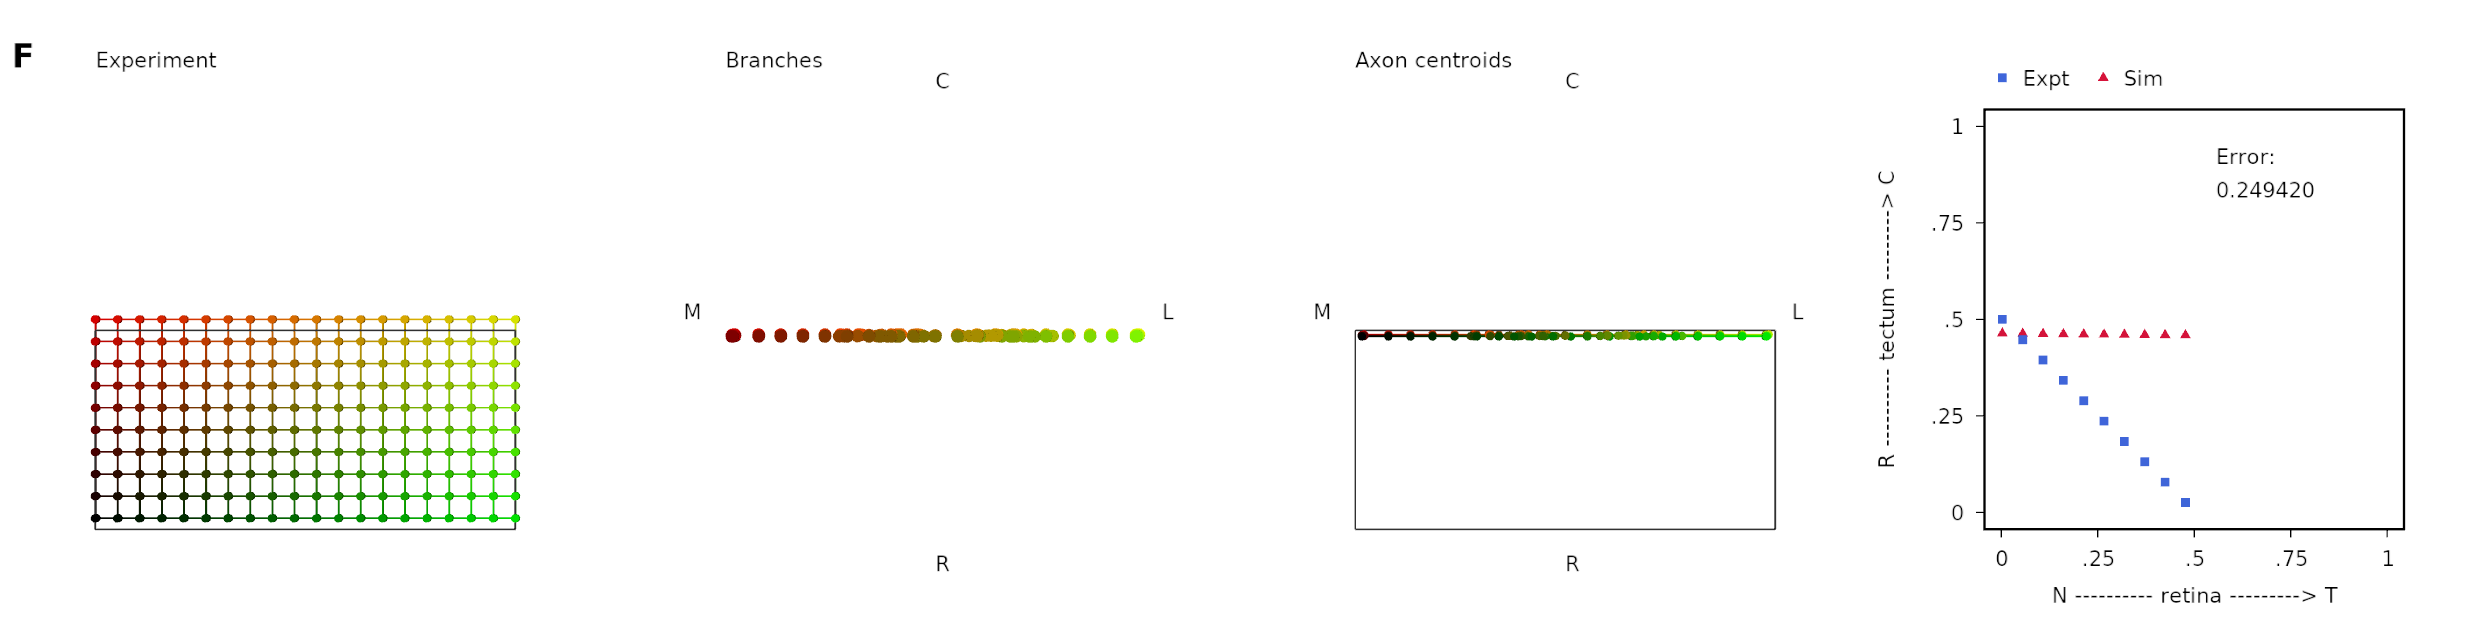
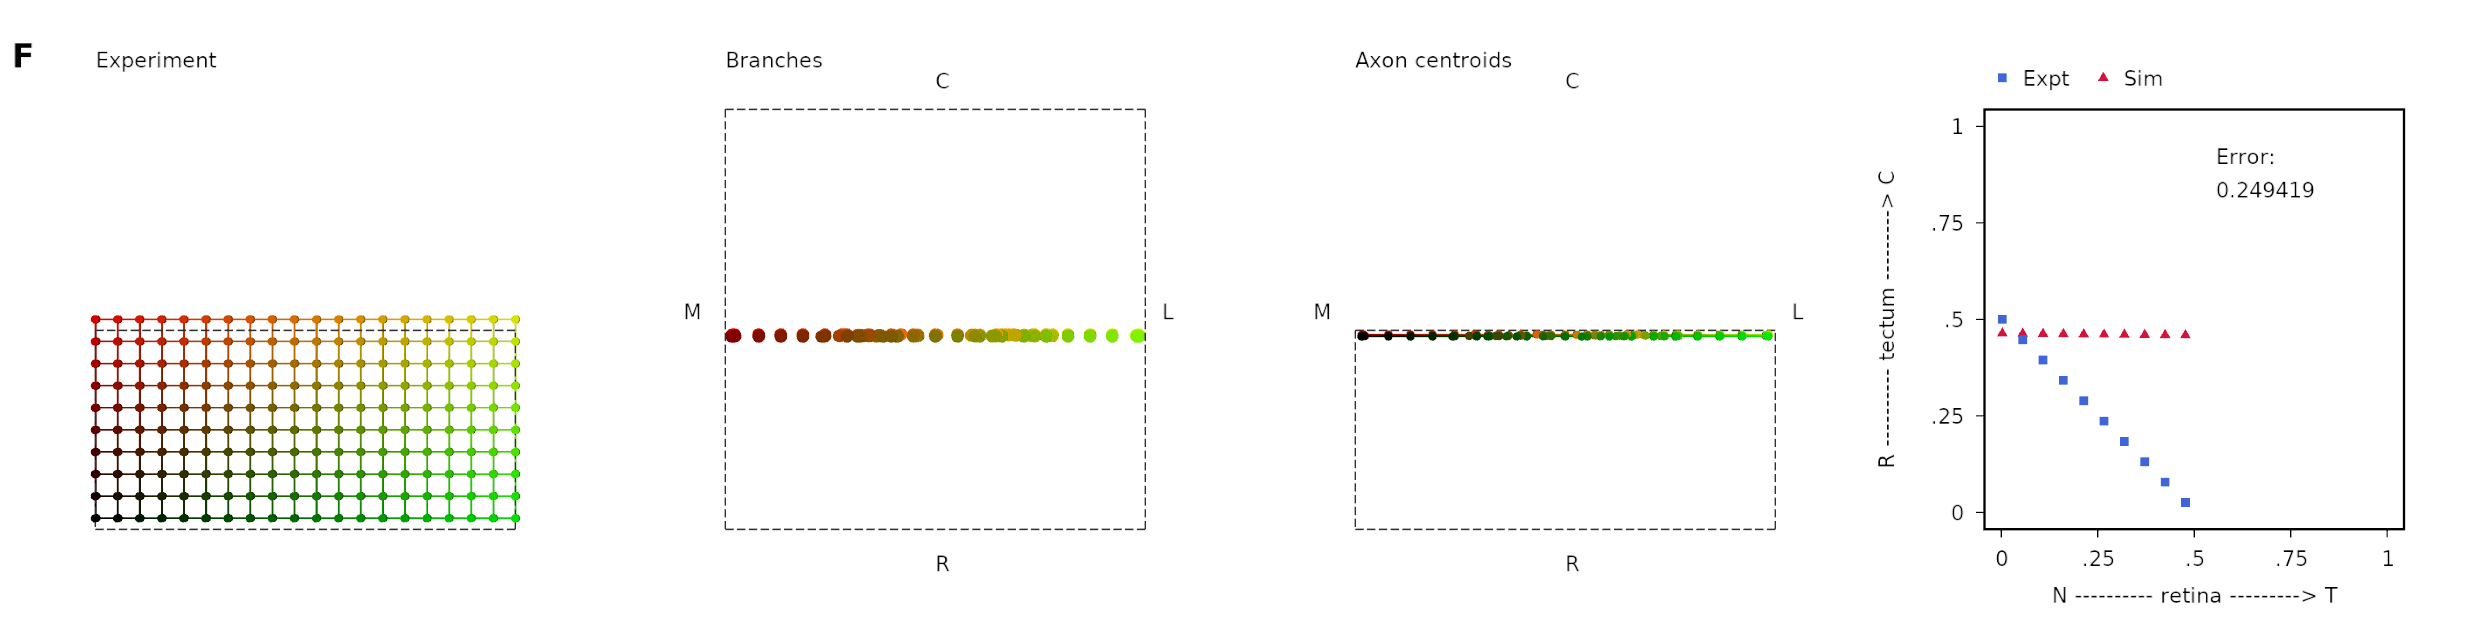
Adds dashed borders to figures

diff --git a/sim/agent/agent1.h b/sim/agent/agent1.h
@@ -99,7 +99,7 @@ std::ostream& operator<< (std::ostream& os, const AgentMetrics<T>& am)
 }
 
 // A selection of possible graph layouts to show when running the program
-enum class graph_layout { a, b, c, d, e, f, g, h };
+enum class graph_layout { a, b, c, d, e, f, g, h, i };
 
 // Agent1 coordinates an agent based simulation of axon branches of type B. This class
 // also incorporates the visualisation code that displays the state of the simulation as
@@ -146,14 +146,12 @@ struct Agent1
                 // Get layout from config file. Default to 0 or 'a'
                 this->layout = (graph_layout)this->conf->getUInt ("graph_layout", 0);
 
-                if (this->layout == graph_layout::c) {
-                    // Set up (from config file if necssary) the times at which the various
-                    // graphs will be frozen (i.e. no longer updated from the sim)
-                    this->freeze_times[0] = 0;
-                    this->freeze_times[1] = this->conf->getUInt ("freeze_time1", 20);
-                    this->freeze_times[2] = this->conf->getUInt ("freeze_time2", 80);
-                    this->freeze_times[3] = this->conf->getUInt ("freeze_time3", 120);
-                }
+                // Set up (from config file if necssary) the times at which the various
+                // graphs will be frozen (i.e. no longer updated from the sim)
+                this->freeze_times[0] = 0;
+                this->freeze_times[1] = this->conf->getUInt ("freeze_time1", 20);
+                this->freeze_times[2] = this->conf->getUInt ("freeze_time2", 80);
+                this->freeze_times[3] = this->conf->getUInt ("freeze_time3", 120);
 
                 // How early to start showing the crossings metric?
                 this->crosscount_from = this->conf->getUInt ("crosscount_from", 1000);
@@ -389,6 +387,17 @@ struct Agent1
             // Show RMS error
             AgentMetrics<T> am = this->get_metrics();
             this->sos_txt->setupText (std::to_string(am.rms[0]));
+            break;
+        }
+        case graph_layout::i:
+        {
+            if (stepnum <= this->freeze_times[1]) { this->cv1->reinit(); } // Time freeze branches
+            this->cv->reinit();  // Centroids
+            this->av->reinit();  // Selected axons
+            this->gv->append ((float)stepnum, this->ax_centroids.sos(), 0); // SOS/Crossings
+            if (stepnum > this->crosscount_from && stepnum%this->crosscount_every == 0) {
+                this->gv->append ((float)stepnum, this->ax_centroids.crosscount(), 1);
+            }
             break;
         }
         default:
@@ -1404,18 +1413,41 @@ struct Agent1
     {
         // morph::Visual init
         unsigned int wdefault = 1200;
-        if (this->layout == graph_layout::a || this->layout == graph_layout::d) { wdefault = 1920; }
-        if (this->layout == graph_layout::b || this->layout == graph_layout::e
-            || this->layout == graph_layout::g || this->layout == graph_layout::h) { wdefault = 2480; }
-        if (this->layout == graph_layout::c) { wdefault = 2200; }
-        if (this->layout == graph_layout::f) { wdefault = 675; }
-        const unsigned int ww = this->conf->getUInt ("win_width", wdefault);
         unsigned int hdefault = 800;
-        if (this->layout == graph_layout::a || this->layout == graph_layout::d) { hdefault = 1200; }
-        if (this->layout == graph_layout::b || this->layout == graph_layout::e
-            || this->layout == graph_layout::g || this->layout == graph_layout::h ) { hdefault = 630; }
-        if (this->layout == graph_layout::c) { hdefault = 1180; }
-        if (this->layout == graph_layout::f) { hdefault = 550; }
+        switch (this->layout) {
+        case graph_layout::a:
+        case graph_layout::d:
+        {
+            // 2x3
+            wdefault = 1920; hdefault = 1200;
+            break;
+        }
+        case graph_layout::b:
+        case graph_layout::e:
+        case graph_layout::g:
+        case graph_layout::h:
+        case graph_layout::i:
+        {
+            // 1x4
+            wdefault = 2480; hdefault = 630;
+            break;
+        }
+        case graph_layout::c:
+        {
+            wdefault = 2200; hdefault = 1180;
+            break;
+        }
+        case graph_layout::f:
+        {
+            // 1x1
+            wdefault = 675; hdefault = 550;
+            break;
+        }
+        default:
+            break;
+        }
+
+        const unsigned int ww = this->conf->getUInt ("win_width", wdefault);
         const unsigned int wh = this->conf->getUInt ("win_height", hdefault);
         if (ww != wdefault || wh != hdefault) {
             std::cout << "visinit() with win height: " << wh << ", and win width: " << ww << " (from json)."<< std::endl;
@@ -1429,15 +1461,17 @@ struct Agent1
             this->v->setSceneTrans (-0.3762f, 0.6880f, -5.3f);
         } else if (this->layout == graph_layout::b) {
             this->v->setSceneTrans (-0.2375f, -0.03f, -2.8f);
-        } else if (this->layout == graph_layout::e) {
-            this->v->setSceneTrans (-0.890077f, -0.0236414f, -2.6f);
         } else if (this->layout == graph_layout::c) {
             this->v->setSceneTrans (-0.91053f, 0.7895f, -6.1f);
+        } else if (this->layout == graph_layout::e) {
+            this->v->setSceneTrans (-0.890077f, -0.0236414f, -2.6f);
         } else if (this->layout == graph_layout::f) {
             this->v->setSceneTrans (1.00190961f,0.0175217576f,-2.70000315f);
         } else if (this->layout == graph_layout::g) {
             this->v->setSceneTrans (-1.22557163,-0.0104022622,-2.79999995);
         } else if (this->layout == graph_layout::h) {
+            this->v->setSceneTrans (-1.22557163,-0.0104022622,-2.79999995);
+        } else if (this->layout == graph_layout::i) {
             this->v->setSceneTrans (-1.22557163,-0.0104022622,-2.79999995);
         }
 
@@ -1475,6 +1509,8 @@ struct Agent1
         } else if (this->layout == graph_layout::h) { // 1x4; expt, branches, centroids, ret NT vs tec RC
             const std::string sl = this->conf->getString ("startletter", "A");
             this->graph_layout_h (offset, sl);
+        } else if (this->layout == graph_layout::i) {
+            this->graph_layout_i (offset);
         } else {
             throw std::runtime_error ("Unknown layout");
         }
@@ -1970,6 +2006,59 @@ struct Agent1
         morph::VisualModel* jtvm = new morph::VisualModel (v->shaderprog, v->tshaderprog, ozero);
         jtvm->addLabel (std::string({sl}), g_A, morph::colour::black, morph::VisualFont::VeraBold, lfs, lpts);
         this->v->addVisualModel (jtvm);
+    }
+
+    void graph_layout_i (const morph::Vector<float>& offset0)
+    {
+        morph::Vector<float> g_A = offset0 + morph::Vector<float>({0.0f, 0.0f, 0.0f});
+        morph::Vector<float> g_B = offset0 + morph::Vector<float>({1.5f, 0.0f, 0.0f});
+        morph::Vector<float> g_C = offset0 + morph::Vector<float>({3.0f, 0.0f, 0.0f});
+        morph::Vector<float> g_D = offset0 + morph::Vector<float>({4.5f, 0.0f, 0.0f});
+
+        // Axon centroids: Centroids of branches viewed with a NetVisual
+        this->cv1 = new NetVisual<T> (v->shaderprog, v->tshaderprog, g_A, &this->ax_centroids);
+        this->cv1->maxlen = this->conf->getDouble ("maxnetline", 1.0);
+        this->cv1->viewmode = netvisual_viewmode::actual;
+        this->cv1->finalize();
+        std::stringstream ss1;
+        ss1 << "t=" << this->freeze_times[1];
+        this->cv1->addLabel (ss1.str(), {0.0f, 1.1f, 0.0f});
+        this->addOrientationLabels (this->cv1, std::string("Tectal"));
+        this->v->addVisualModel (this->cv1);
+
+        // Axon centroids, final positions
+        this->cv = new NetVisual<T> (v->shaderprog, v->tshaderprog, g_B, &this->ax_centroids);
+        this->cv->maxlen = this->conf->getDouble ("maxnetline", 1.0);
+        this->cv->viewmode = netvisual_viewmode::actual;
+        this->cv->finalize();
+        std::stringstream ssf;
+        ssf << "t=" << this->conf->getInt("steps", -1);
+        this->cv->addLabel (ssf.str(), {0.0f, 1.1f, 0.0f});
+        this->addOrientationLabels (this->cv, std::string("Tectal"));
+        this->v->addVisualModel (this->cv);
+
+        // Selected axons: This one gives an 'axon view'
+        this->av = new BranchVisual<T, N, B> (v->shaderprog, v->tshaderprog, g_C, &this->branches, &this->ax_history);
+        this->av->view = branchvisual_view::axonview;
+        for (auto sa : this->seeaxons) { this->av->seeaxons.insert(sa); }
+        this->av->rcpt_scale.compute_autoscale (rcpt_min, rcpt_max);
+        this->av->target_scale.compute_autoscale (0, 1);
+        this->av->finalize();
+        this->av->addLabel ("Selected axons", {0.0f, 1.1f, 0.0f});
+        this->v->addVisualModel (this->av);
+
+        // Graph: A graph of the SOS diffs between axon position centroids and target positions from retina
+        this->gv = new morph::GraphVisual<T> (v->shaderprog, v->tshaderprog, g_D);
+        this->gv->twodimensional = false;
+        this->gv->setlimits (0, this->conf->getFloat ("steps", 1000),
+                             0, this->conf->getFloat("graph_ymax", 200.0f));
+        this->gv->policy = morph::stylepolicy::lines;
+        this->gv->ylabel = "SOS";
+        this->gv->xlabel = "Sim time";
+        this->gv->prepdata ("SOS");
+        this->gv->prepdata ("Crossings");
+        this->gv->finalize();
+        this->v->addVisualModel (this->gv);
     }
 
 #endif // VISUALISE

diff --git a/sim/agent/netvisual.h b/sim/agent/netvisual.h
@@ -163,6 +163,7 @@ public:
         this->drawBoundary (idx);
     }
 
+    // The tissue boundary, indicated by dashed lines
     void drawBoundary (VBOint& idx)
     {
         std::array<float, 3> gry = { 0.2, 0.2, 0.2 };
@@ -172,14 +173,29 @@ public:
             h *= (this->locations->domain_h-1) * this->locations->dx[1];
         }
         float _z = puckthick[2]*float{0.5001}; // Ensure boundary is visible above rest of drawing
-        this->computeLine (idx, morph::Vector<Flt, 3>({0, 0, _z}), morph::Vector<Flt, 3>({w, 0, _z}),
-                           this->uz, gry, gry, this->linewidth*zoom, this->linewidth/4*zoom);
-        this->computeLine (idx, morph::Vector<Flt, 3>({w, 0, _z}), morph::Vector<Flt, 3>({w, h, _z}),
-                           this->uz, gry, gry, this->linewidth*zoom, this->linewidth/4*zoom);
-        this->computeLine (idx, morph::Vector<Flt, 3>({w, h, _z}), morph::Vector<Flt, 3>({0, h, _z}),
-                           this->uz, gry, gry, this->linewidth*zoom, this->linewidth/4*zoom);
-        this->computeLine (idx, morph::Vector<Flt, 3>({0, h, _z}), morph::Vector<Flt, 3>({0, 0, _z}),
-                           this->uz, gry, gry, this->linewidth*zoom, this->linewidth/4*zoom);
+
+        this->computeFlatDashedLine (idx,
+                                     morph::Vector<Flt, 3>({0, 0, _z}),
+                                     morph::Vector<Flt, 3>({w, 0, _z}),
+                                     this->uz,
+                                     gry,
+                                     this->linewidth*zoom, 0.0f,
+                                     this->linewidth*5.0f, 0.4f);
+        this->computeFlatDashedLine (idx, morph::Vector<Flt, 3>({w, 0, _z}), morph::Vector<Flt, 3>({w, h, _z}),
+                                     this->uz,
+                                     gry,
+                                     this->linewidth*zoom, 0.0f,
+                                     this->linewidth*5.0f, 0.4f);
+        this->computeFlatDashedLine (idx, morph::Vector<Flt, 3>({w, h, _z}), morph::Vector<Flt, 3>({0, h, _z}),
+                                     this->uz,
+                                     gry,
+                                     this->linewidth*zoom, 0.0f,
+                                     this->linewidth*5.0f, 0.4f);
+        this->computeFlatDashedLine (idx, morph::Vector<Flt, 3>({0, h, _z}), morph::Vector<Flt, 3>({0, 0, _z}),
+                                     this->uz,
+                                     gry,
+                                     this->linewidth*zoom, 0.0f,
+                                     this->linewidth*5.0f, 0.4f);
     }
 
     //! Set this->radiusFixed, then re-compute vertices.

diff --git a/sim/agent/branchvisual.h b/sim/agent/branchvisual.h
@@ -58,6 +58,33 @@ public:
     void drawBoundary (VBOint& idx)
     {
         std::array<float, 3> gry = { 0.2, 0.2, 0.2 };
+        float w = 1.0f, h = 1.0f;
+        float _z = float{0.001};
+
+        this->computeFlatDashedLine (idx,
+                                     morph::Vector<Flt, 3>({0, 0, _z}),
+                                     morph::Vector<Flt, 3>({w, 0, _z}),
+                                     this->uz,
+                                     gry,
+                                     this->blinewidth, 0.0f,
+                                     this->blinewidth*5.0f, 0.4f);
+        this->computeFlatDashedLine (idx, morph::Vector<Flt, 3>({w, 0, _z}), morph::Vector<Flt, 3>({w, h, _z}),
+                                     this->uz,
+                                     gry,
+                                     this->blinewidth, 0.0f,
+                                     this->blinewidth*5.0f, 0.4f);
+        this->computeFlatDashedLine (idx, morph::Vector<Flt, 3>({w, h, _z}), morph::Vector<Flt, 3>({0, h, _z}),
+                                     this->uz,
+                                     gry,
+                                     this->blinewidth, 0.0f,
+                                     this->blinewidth*5.0f, 0.4f);
+        this->computeFlatDashedLine (idx, morph::Vector<Flt, 3>({0, h, _z}), morph::Vector<Flt, 3>({0, 0, _z}),
+                                     this->uz,
+                                     gry,
+                                     this->blinewidth, 0.0f,
+                                     this->blinewidth*5.0f, 0.4f);
+#if 0
+        std::array<float, 3> gry = { 0.2, 0.2, 0.2 };
         float w = 1, h = 1;
         this->computeLine (idx, morph::Vector<Flt, 3>({0, 0, 0}), morph::Vector<Flt, 3>({w, 0, 0}),
                            this->uz, gry, gry, this->blinewidth, this->blinewidth/4);
@@ -67,6 +94,7 @@ public:
                            this->uz, gry, gry, this->blinewidth, this->blinewidth/4);
         this->computeLine (idx, morph::Vector<Flt, 3>({0, h, 0}), morph::Vector<Flt, 3>({0, 0, 0}),
                            this->uz, gry, gry, this->blinewidth, this->blinewidth/4);
+#endif
     }
 
     void initializeVertices()
@@ -129,6 +157,7 @@ public:
                 }
             }
         }
+        this->drawBoundary (idx);
     }
 
     // A special puck/disc with colours to show receptor and ligand expression

diff --git a/paper/paper.tex b/paper/paper.tex
@@ -612,7 +612,7 @@ allows a well ordered map to form for the wildtype system. Fig
 .\,\ref{f:chalt}C shows the error metric (\textbf{FIXIMAGE}), $\epsilon$,
 which is much closer to 0 with the new ligand expression.
 
-% ./build/sim/agent/agent1 configs/simpler/m_eE_G.json  configs/simpler/e_wt_fig2.json
+% ./build/sim/agent/agent1 configs/simpler/m_eE_G.json  configs/simpler/e_wt_fig3.json
 \begin{figure}
 \includegraphics[width=\linewidth]{./images/j4_eE_G_wt_fig3.png}
 \caption{The pure gradient-following model (alt exponential).}
@@ -781,7 +781,8 @@ W_c(d_{kb}) = \begin{cases}
 \end{equation}
 for two growth cones of interaction radius $r_c$ separated by a distance
 $d_{kb}$. $B_{b,c}$ is the set of growth cones within a distance $2r_c$ of
-branch $b$.
+branch $b$. This description of the competition matches that
+in \citet{simpson_simple_2011}.
 
 % ./build/sim/agent/agent1 configs/simpler/m_ee_GC_best_1.json configs/simpler/e_wt_figcomp1.json
 \begin{figure}
